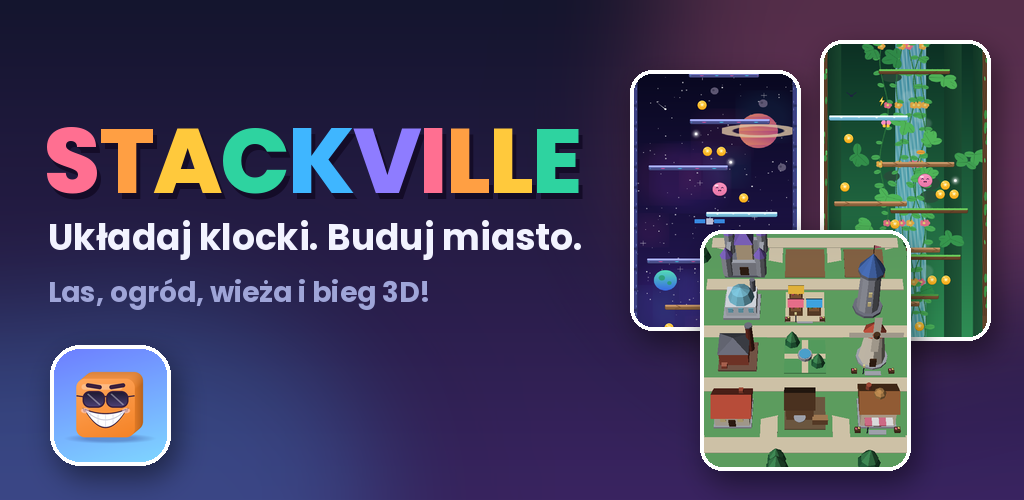
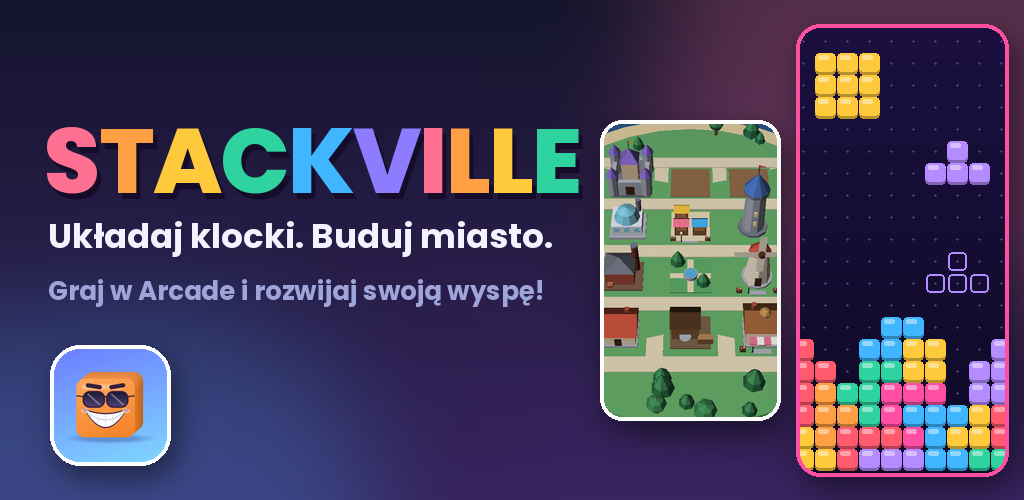
Feature graphic: Arcade board card, new tagline (play Arcade, grow your island)
Claude-Session: https://claude.ai/code/session_01XHnrsX7U6akCzcbpxjQbzf

diff --git a/Tools/StoreAssets/make_store_assets.py b/Tools/StoreAssets/make_store_assets.py
@@ -20,8 +20,8 @@ FONT_MAIN = os.path.join(ROOT, "Assets", "Resources", "Fonts", "MainFont.ttf")
 RAINBOW = ["#FF6F91", "#FF9F43", "#FFC93C", "#2ED3A0", "#3FB6FF", "#8E7CFF"]
 
 TAGLINES = {
-    "pl-PL": ("Układaj klocki. Buduj miasto.", "Las, ogród, wieża i bieg 3D!"),
-    "en-US": ("Stack blocks. Build a town.", "Forest, garden, tower and a 3D run!"),
+    "pl-PL": ("Układaj klocki. Buduj miasto.", "Graj w Arcade i rozwijaj swoją wyspę!"),
+    "en-US": ("Stack blocks. Build a town.", "Play Arcade and grow your island!"),
 }
 
 # Captions for the framed screenshots, in the order of your raw files (01.png, 02.png, ...).
@@ -99,6 +99,60 @@ def rainbow_title(draw, xy, text, font):
         x += draw.textlength(ch, font=font) - 2
 
 
+JELLY = ["#FF5A6E", "#3FB6FF", "#FFC93C", "#2ED3A0", "#B48CFF", "#FF9F43", "#FF4FA3"]
+
+
+def jelly_cell(d, x, y, s, color):
+    """One glossy jelly block, like the game's Jelly skin."""
+    c = hex2rgb(color)
+    dark = tuple(int(v * 0.72) for v in c)
+    light = tuple(min(255, int(v + (255 - v) * 0.45)) for v in c)
+    r = max(3, s // 5)
+    d.rounded_rectangle([x + 1, y + 2, x + s - 1, y + s], radius=r, fill=dark)
+    d.rounded_rectangle([x + 1, y + 1, x + s - 1, y + s - 3], radius=r, fill=c)
+    d.rounded_rectangle([x + s * 0.18, y + s * 0.14, x + s * 0.62, y + s * 0.34], radius=max(2, s // 8), fill=light)
+
+
+def arcade_board(w, h):
+    """A neon Arcade board: a stack with nearly full rows, a falling T piece and a big 3x3 square."""
+    cols, rows = 10, 20
+    s = min((w - 12) // cols, (h - 12) // rows)
+    w, h = cols * s + 12, rows * s + 12
+    img = gradient((w, h), "#1B1040", "#0E0A26").convert("RGBA")
+    d = ImageDraw.Draw(img)
+    ox, oy = 6, 6
+    for gx in range(cols):
+        for gy in range(rows):
+            cx, cy = ox + gx * s + s // 2, oy + gy * s + s // 2
+            d.ellipse([cx - 1, cy - 1, cx + 1, cy + 1], fill=(70, 60, 120))
+    # the stack (bottom rows), '.' = empty; letters pick a colour
+    stack = [
+        "..........",
+        "....bb....",
+        "a..bbcc..e",
+        "aa.ddcc.ee",
+        "afddggg.ee",
+        "affdgbbbca",
+        "cfaaagbcca",
+        "ccaeeebbdd",
+    ]
+    for i, line in enumerate(stack):
+        gy = rows - len(stack) + i
+        for gx, ch in enumerate(line):
+            if ch != ".":
+                jelly_cell(d, ox + gx * s, oy + gy * s, s, JELLY["abcdefg".index(ch)])
+    # falling T piece with its ghost
+    for gx, gy in [(6, 6), (7, 6), (8, 6), (7, 5)]:
+        jelly_cell(d, ox + gx * s, oy + gy * s, s, "#B48CFF")
+    for gx, gy in [(6, 11), (7, 11), (8, 11), (7, 10)]:
+        d.rounded_rectangle([ox + gx * s + 2, oy + gy * s + 2, ox + gx * s + s - 2, oy + gy * s + s - 2], radius=4, outline=hex2rgb("#B48CFF"), width=2)
+    # big 3x3 square coming next
+    for gx in range(3):
+        for gy in range(3):
+            jelly_cell(d, ox + (1 + gx) * s, oy + (1 + gy) * s, s, "#FFC93C")
+    return img
+
+
 def icon():
     src = Image.open(os.path.join(SRC, "icon-src.png")).convert("RGBA").resize((512, 512), Image.LANCZOS)
     path = os.path.join(OUT, "icon-512.png")
@@ -116,14 +170,10 @@ def feature_graphic(lang):
     gd.ellipse([-150, 260, 420, 700], fill=hex2rgb("#3FB6FF") + (60,))
     base.alpha_composite(glow.filter(ImageFilter.GaussianBlur(70)))
 
-    # real game renders as cards on the right
+    # the Arcade block puzzle (big card) and the 3D town on the right
     city = Image.open(os.path.join(SRC, "city3d.png")).convert("RGBA")
-    towers = Image.open(os.path.join(SRC, "towers.png")).convert("RGBA")
-    jungle = towers.crop((1080, 0, 1620, 960))
-    space = towers.crop((0, 960, 540, 1920))
-    card(base, space, (630, 70, 170, 260), 22)
-    card(base, jungle, (820, 40, 170, 300), 22)
-    card(base, city.crop((40, 160, 500, 820)), (700, 230, 210, 240), 22)
+    card(base, city.crop((40, 160, 500, 820)), (600, 120, 180, 300), 22)
+    card(base, arcade_board(232, 472), (796, 24, 212, 452), 24, "#FF4FA3")
 
     # mascot
     mascot = Image.open(os.path.join(SRC, "icon-src.png")).convert("RGBA").resize((230, 230), Image.LANCZOS)
@@ -134,7 +184,7 @@ def feature_graphic(lang):
     title = ImageFont.truetype(FONT_TITLE, 92)
     rainbow_title(d, (44, 96), "STACKVILLE", title)
     line1, line2 = TAGLINES[lang]
-    def fit(text, size, max_w=560):
+    def fit(text, size, max_w=520):
         while size > 16:
             f = ImageFont.truetype(FONT_MAIN, size)
             if d.textlength(text, font=f) <= max_w:
